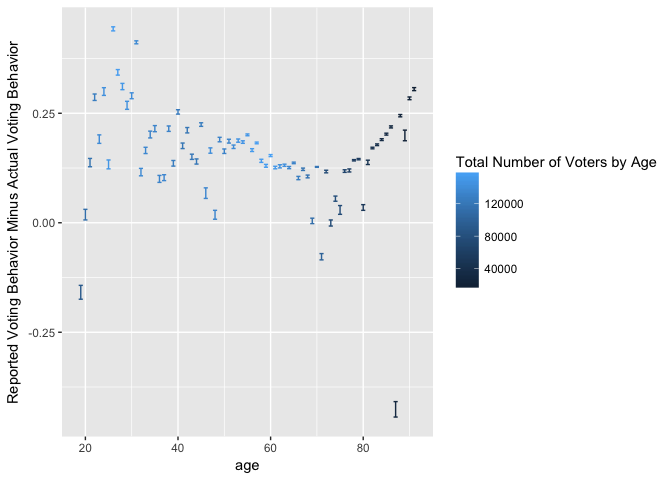
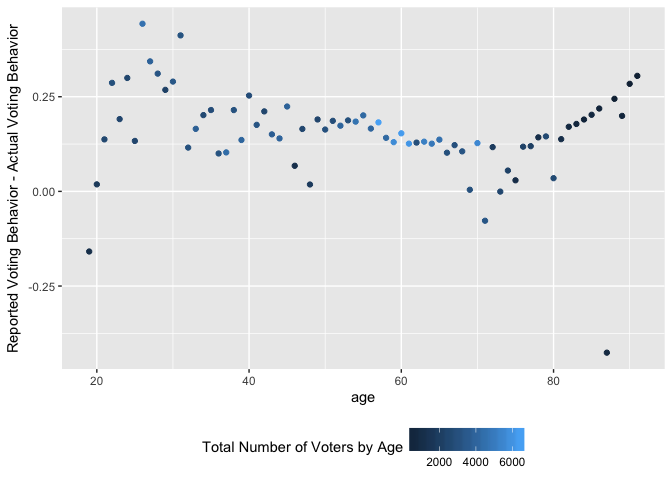
i added several elements to my graphs after consulting with chester

diff --git a/Viz/Poster_Viz.md b/Viz/Poster_Viz.md
@@ -108,6 +108,23 @@ viz16 <- read_csv("~/oh-elections-project/CCES_Files/vote16_long.csv")
     ## )
 
 ``` r
+unweightedviz16 <-read_csv("~/oh-elections-project/CCES_Files/CCES_vote16.csv")
+```
+
+    ## Warning: Missing column names filled in: 'X1' [1]
+
+    ## Parsed with column specification:
+    ## cols(
+    ##   X1 = col_integer(),
+    ##   weight = col_double(),
+    ##   age = col_integer(),
+    ##   voted = col_character(),
+    ##   party = col_character(),
+    ##   registered = col_character(),
+    ##   method_vote = col_character()
+    ## )
+
+``` r
 smallviz16 <- viz16 %>% select(age, voted) %>% group_by(age) %>% summarize(percent_voted = base::mean(voted == "yes"), n())
 
 #tidying it up so we can merge
@@ -132,7 +149,8 @@ SEdiff <- mutate(diff, SE = sqrt((CCESpercent*(1-CCESpercent))/CCESN + ((VoterRe
 
 ``` r
 #plotting
-ggplot(SEdiff, aes(age, CCESminusVoterReg, col = (CCESN + VoterRegN))) + geom_errorbar(aes(ymin = CCESminusVoterReg - SE, ymax = CCESminusVoterReg + SE)) + ylab('Reported Voting Behavior Minus Actual Voting Behavior') + labs(col = "Total Number of Voters by Age") 
+ggplot(SEdiff, aes(age, CCESminusVoterReg, col = (CCESN))) + geom_point() + ylab('Reported Voting Behavior - Actual Voting Behavior') + labs(col = "Total Number of Voters by Age") +
+    theme(legend.position="bottom")
 ```
 
 ![](Poster_Viz_files/figure-markdown_github/unnamed-chunk-6-1.png)
@@ -147,7 +165,15 @@ ggplot(ohio_age_vote, aes(age, fill = vote)) + geom_bar(position = "dodge") + yl
 ``` r
 #figuring out which df to use
 theme_update(plot.title = element_text(hjust = 0.5))
+theme_update(plot.subtitle = element_text(hjust = 0.5))
 ggplot(ohio_age_vote1, aes(age, fill = newvote)) + geom_bar(position = "dodge") + ylab('Total Count') + xlab("Age") + ggtitle('Actual Voting Behavior by Age') + scale_fill_manual(values=c("#000000", "#FF0000"), name="Did They Vote?", breaks=c("O", "X"),  labels=c(" No", "Yes"))
 ```
 
 ![](Poster_Viz_files/figure-markdown_github/unnamed-chunk-8-1.png)
+
+``` r
+#this is dumb lol
+ggplot(ohio_age_vote1, aes(age, fill = newvote)) + geom_density() + scale_fill_manual(values=c("#000000", "#FF0000"), name="Did They Vote?", breaks=c("O", "X"),  labels=c(" No", "Yes")) + ggtitle("this is dumb lol")
+```
+
+![](Poster_Viz_files/figure-markdown_github/unnamed-chunk-9-1.png)
